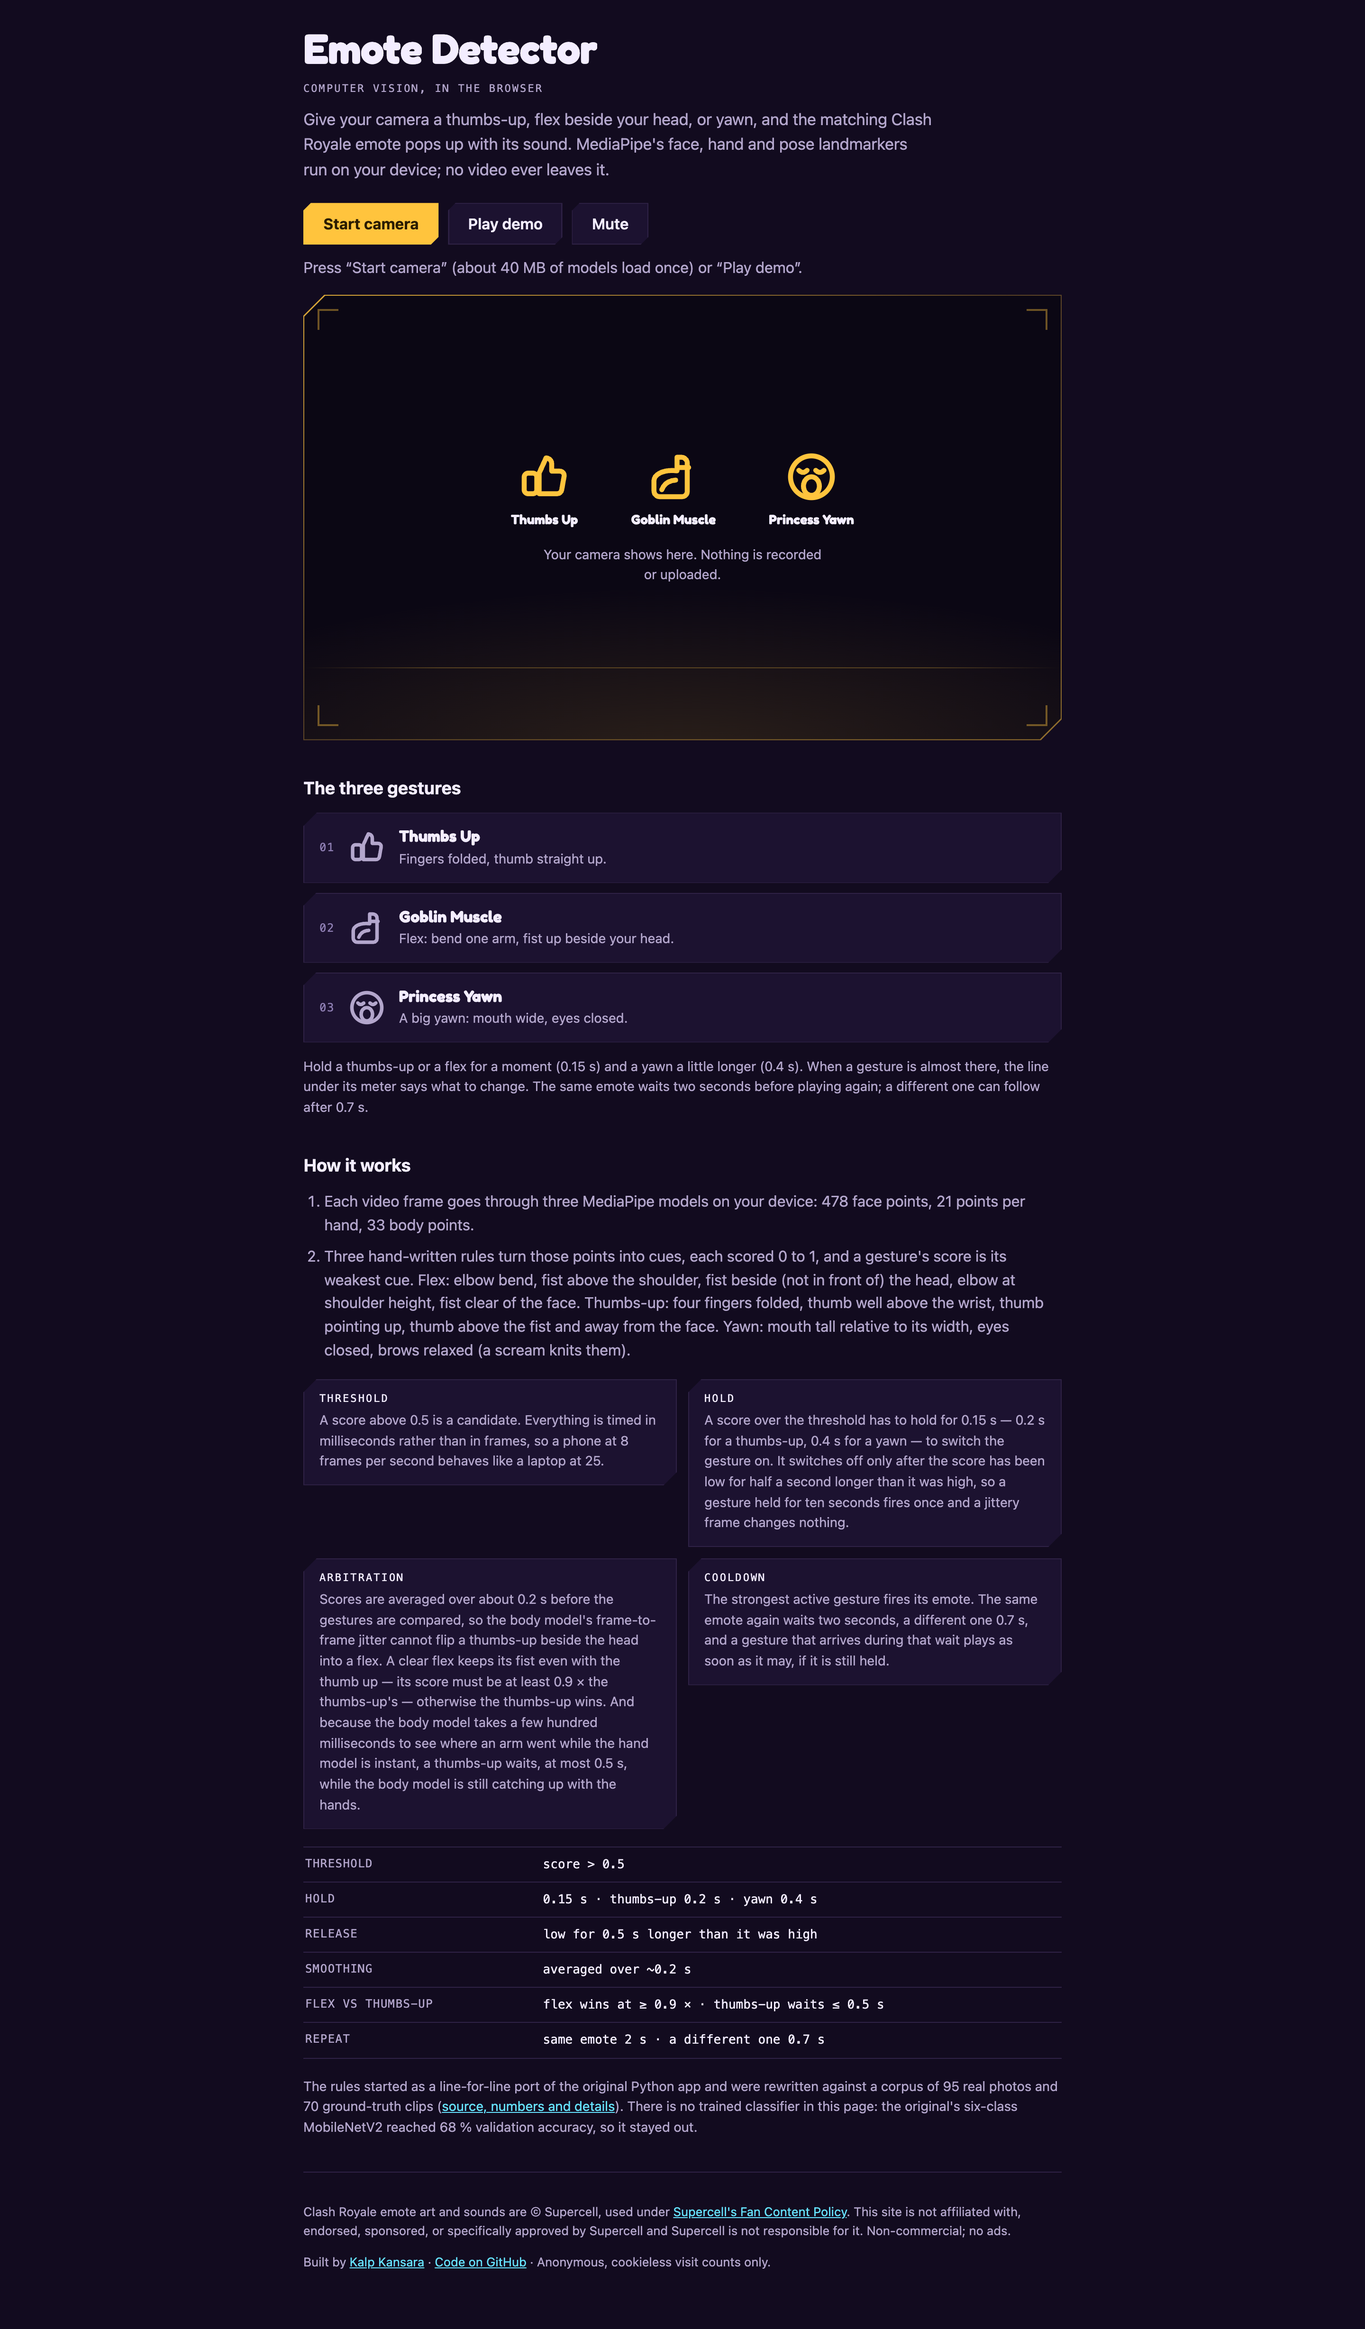
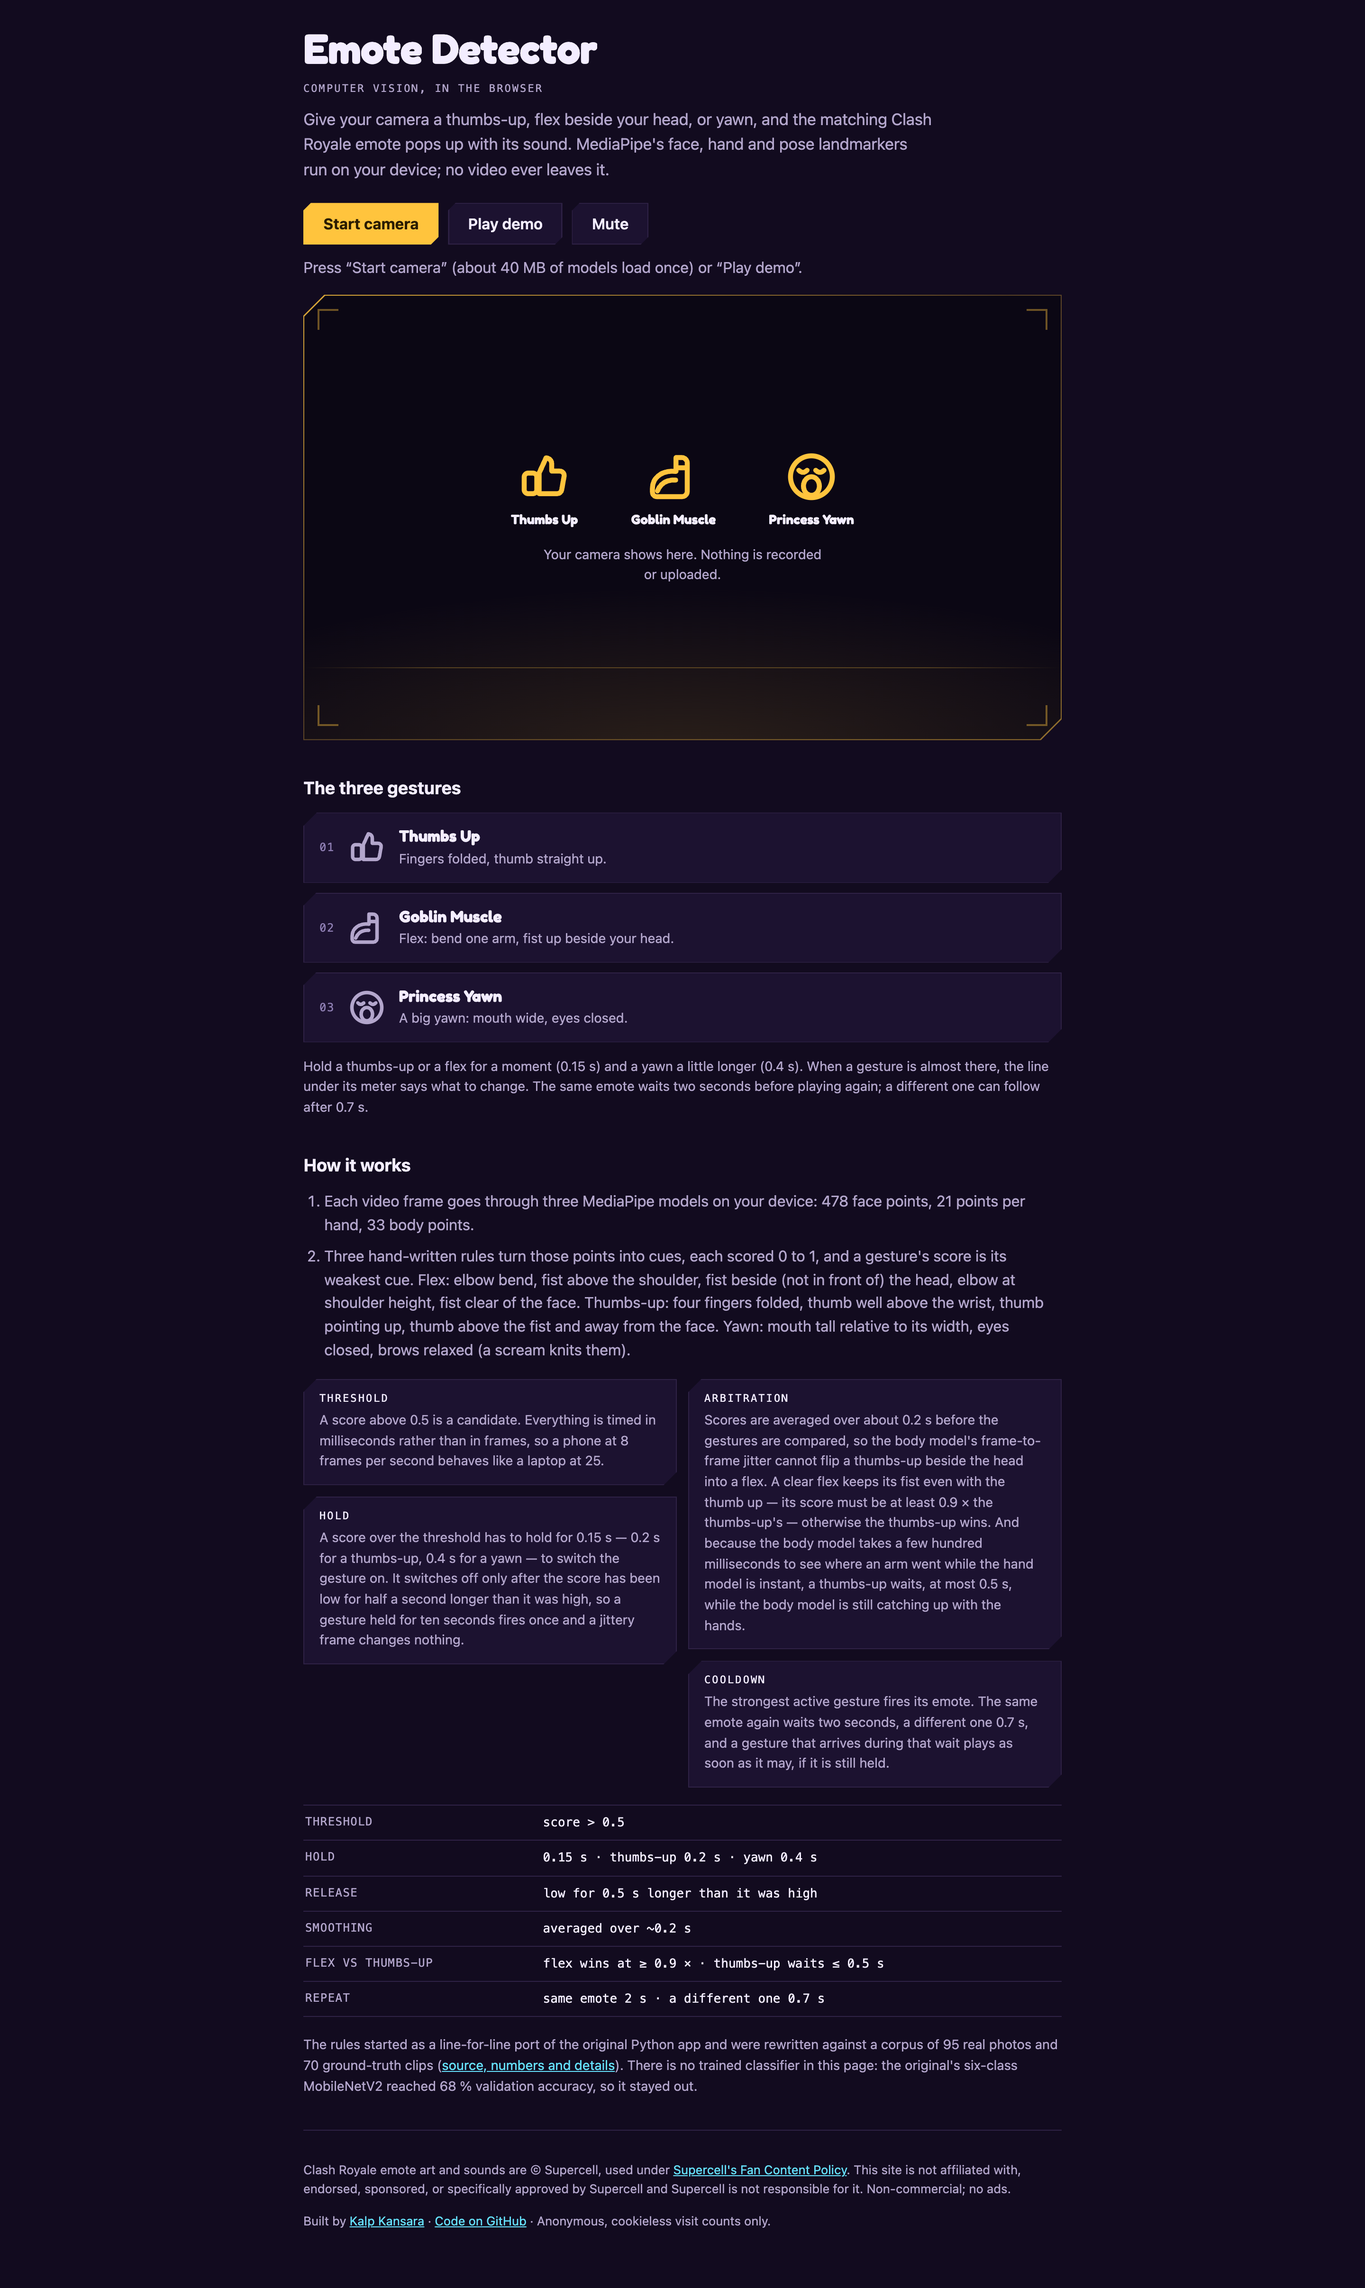
design: reviewer fixes — the reduce path, five false doc claims, a gate that could not fail
REJECT from the reviewer, three blocking items, all real.

1. Under prefers-reduced-motion the HUD was forced to translateY(0) unconditionally,
   so at rest a reduced-motion visitor saw the scoreboard's three marks 80 px under
   the triptych's three marks: six marks, three names twice, the floor rule covered.
   That is the running state shown at rest, not a complete final state, and it put
   back the exact P3 slop item the spec claims to close — on the accessibility path.
   The strip now stays out of the arena at rest and is in it while running, each
   state complete on its own, with no transition either way.

2. Five claims in spec.md and DESIGN.md were false of the shipped code: background,
   border-color, color and --beam-angle animate as well as transform/opacity/clip-path;
   the marks are 40 px (28 on a phone), not 44; the M6 "rim flash 400 ms" was never
   built; M5 is 0.6 opacity and linear with no fade-in, not 0.55 with an ease; and the
   beam ring is a second rounded surface. Every one is corrected, and the skip link now
   moves on transform instead of `top`, which animation-systems puts on the avoid list,
   so "no layout property animates" is true rather than aspirational.

3. The gate's reduced-motion beam assertion read ::after on a cell that was not
   .is-almost, so it returned "none" whatever the media query said — it would have
   passed with the override deleted. It now applies the class first, and asserts that
[…]

diff --git a/src/style.css b/src/style.css
@@ -722,7 +722,8 @@ h2 {
 .gesture-list li {
   --cut: var(--cut-md);
   display: grid;
-  grid-template-columns: auto 40px 1fr auto;
+  /* Three tracks at rest; `.is-live` adds the fourth for the percentage. */
+  grid-template-columns: auto 40px 1fr;
   align-items: center;
   gap: 14px;
   padding: 14px 16px;
@@ -842,15 +843,25 @@ h2 {
   margin-top: 8px;
 }
 
+/*
+  Multicol, not grid: the four sub-points are very different lengths, and a grid either stretches
+  them (a void the length of Arbitration) or leaves ragged holes. Columns balance their own
+  heights.
+*/
 .how-grid {
-  display: grid;
-  gap: 12px;
-  grid-template-columns: repeat(auto-fit, minmax(300px, 1fr));
-  /* Each panel hugs its own prose. Stretching them left a void the length of Arbitration. */
-  align-items: start;
+  columns: 2;
+  column-gap: 12px;
+}
+
+@media (max-width: 620px) {
+  .how-grid {
+    columns: 1;
+  }
 }
 
 .how-grid article {
+  break-inside: avoid;
+  margin-bottom: 12px;
   --cut: var(--cut-md);
   padding: 14px 16px;
   border: 1px solid var(--line);
@@ -968,21 +979,28 @@ html.reveal-ready [data-reveal].is-in {
   white-space: nowrap;
 }
 
+/*
+  A link, so it is cyan, not gold: outside the arena gold is the primary button and the "almost"
+  state only. It moves on `transform`, never on `top` — animation-systems puts layout properties
+  on the avoid list.
+*/
 .skip-link {
   position: absolute;
   left: 16px;
-  top: -64px;
+  top: 16px;
   z-index: 10;
   padding: 12px 18px;
-  background: var(--accent);
-  color: var(--accent-ink);
+  border: 1px solid var(--cyan);
+  background: var(--bg-elev);
+  color: var(--cyan);
   font-weight: 700;
   text-decoration: none;
-  transition: top var(--dur-state) var(--ease);
+  transform: translateY(-96px);
+  transition: transform var(--dur-state) var(--ease);
 }
 
 .skip-link:focus-visible {
-  top: 16px;
+  transform: translateY(0);
 }
 
 /*
@@ -1024,9 +1042,13 @@ html.reveal-ready [data-reveal].is-in {
     transition: none;
   }
 
-  /* M3: the scoreboard is simply there, at rest and while running. */
+  /*
+    M3: no slide. `.hud` keeps translateY(101%) at rest and `.stage.running .hud` puts it at 0,
+    so each state lands instantly on its OWN complete final state. Forcing translateY(0) here
+    showed the scoreboard at rest, duplicating the triptych above it — the running state while
+    at rest is not a complete final state, it is the wrong one.
+  */
   .hud {
-    transform: translateY(0);
     transition: none;
   }
 
@@ -1079,5 +1101,11 @@ html.reveal-ready [data-reveal].is-in {
 
   .skip-link {
     transition: none;
+  }
+
+  .hud-mark,
+  .arena,
+  .button {
+    transition-duration: 0ms;
   }
 }

diff --git a/index.html b/index.html
@@ -37,9 +37,9 @@
       </symbol>
       <symbol id="mark-flex" viewBox="0 0 32 32">
         <g fill="none" stroke="currentColor" stroke-width="3" stroke-linecap="round" stroke-linejoin="round" vector-effect="non-scaling-stroke">
-          <path d="M18.4 4.2h2.6a3.6 3.6 0 0 1 3.6 3.6v17a3.2 3.2 0 0 1-3.2 3.2H8a3.5 3.5 0 0 1-3.5-3.5v-6.1C4.5 14.2 11 11.4 18.4 12.4Z" />
-          <path d="M18.6 10.4h6.8" />
-          <path d="M9.2 23.8c1.4-3.6 4.4-5.6 8.4-5.8" />
+          <path d="M17.8 4.4h3.4a3.4 3.4 0 0 1 3.4 3.4v17a3.2 3.2 0 0 1-3.2 3.2H6.2a2.6 2.6 0 0 1-2.6-2.6v-2.6C3.6 16.2 10 11.8 17.8 12.8Z" />
+          <path d="M18 10.6h6.4" />
+          <path d="M6.6 24.6c1.8-4.6 5.8-7 11-6.6" />
         </g>
       </symbol>
       <symbol id="mark-yawn" viewBox="0 0 32 32">
@@ -139,7 +139,7 @@
 
       <section class="gestures" aria-labelledby="gestures-heading">
         <h2 id="gestures-heading">The three gestures</h2>
-        <ul class="gesture-list">
+        <ul id="gesture-list" class="gesture-list">
           <li data-reveal style="--i: 0">
             <span class="num" aria-hidden="true">01</span>
             <svg class="mark" aria-hidden="true"><use href="#mark-thumbs_up" /></svg>

diff --git a/src/main.ts b/src/main.ts
@@ -32,7 +32,7 @@ const demoCaption = $<HTMLDivElement>("demo-caption");
 const ctx = canvas.getContext("2d")!;
 /** The arena's scoreboard along the bottom edge of the stage. Draws only what the engine computes. */
 const hud = new Hud($<HTMLDivElement>("hud"));
-const gestureList = document.querySelector<HTMLUListElement>(".gesture-list");
+const gestureList = $<HTMLUListElement>("gesture-list");
 
 const meters: Record<Gesture, { bar: HTMLDivElement; value: HTMLSpanElement; hint: HTMLSpanElement; idle: string }> = {
   flex: { bar: $("bar-flex"), value: $("val-flex"), hint: $("hint-flex"), idle: "" },
@@ -233,7 +233,7 @@ function setRunning(running: boolean, kind: Source["kind"] | null): void {
   demoCaption.classList.toggle("hidden", kind !== "demo");
   // P3 audit items: no dead "Stop" and no three identical 0 % rows before anything has started.
   stopBtn.classList.toggle("is-idle-hidden", !running);
-  gestureList?.classList.toggle("is-live", running);
+  gestureList.classList.toggle("is-live", running);
 }
 
 async function ensureModels(): Promise<Landmarkers> {

diff --git a/docs/design/DESIGN.md b/docs/design/DESIGN.md
@@ -27,7 +27,7 @@ it was the best thing about it. What changed is that every colour now has exactl
 | `--line` | `#2f2246` | Every 1 px rule and panel edge that is not the arena. |
 | `--accent` | `#ffc43d` | **Gold is the arena**: its frame, its corner brackets, its floor-light, the marks it shows at rest, and any gesture firing or about to fire inside it. Outside the arena, only the primary button that starts a session and the "almost" state on a gesture row. Never a section heading, an eyebrow or a numeral. |
 | `--accent-ink` | `#2a1c00` | Text on gold. 10.45:1. |
-| `--cyan` | `#66e3ff` | **Links, and the focus ring. Nothing else.** |
+| `--cyan` | `#66e3ff` | **Links, the skip link, and the focus ring. Nothing else.** |
 
 **`--pink` was deleted.** It had tinted the "almost" border (now gold, because gold is that state's
 colour) and the face landmark dots (now muted, because the overlay is machinery). A second accent
@@ -101,10 +101,11 @@ third and a radial floor-light coming up from beneath it. That light is the only
 and it is concentrated there; the purple is never washed. When a session starts the frame's edge
 brightens and the furniture steps back behind the picture.
 
-**The one rounded thing on the page is the plate**, at 20 px, and that is the hierarchy
-`corner-diagonals` asks for when rounded and chamfered geometry share a surface: everything that
-is *interface* is chamfered; the single *physical object* that gets thrown into the arena is
-molded. If a second rounded surface appears, that distinction has been lost.
+**Two rounded surfaces, and only two**: the plate at 20 px and the beam ring at 10 px. That is
+the hierarchy `corner-diagonals` asks for when rounded and chamfered geometry share a page —
+everything that is *interface* is chamfered; the *physical object* thrown into the arena is
+molded, and the halo that traces a mark follows the mark's own soft shape rather than the
+interface's. A third rounded surface means the distinction has been lost.
 
 **One skeuomorphic object** (`skeuomorphic-ui`): the plate the emote lands on. Soft vertical
 gradient, a 1 px reflective gradient border, stacked outer elevation plus inset carved depth, a
@@ -155,9 +156,9 @@ stagger 60 ms (35 ms for hero words).
 |---|---|---|---|
 | M1 | h1 words rise through a mask, on load | hierarchy | Never split. Plain h1, no motion. |
 | M2 | Gesture rows, how-it-works panels and the timings list rise once on scroll | attention | Complete on first paint. |
-| M3 | Arena edge brightens, HUD strip rises out of the bottom edge | feedback + continuity | Both at their final state instantly. |
+| M3 | Arena edge brightens, HUD strip rises out of the bottom edge | feedback + continuity | No slide and no colour transition: at rest the strip is out of the arena, once running it is in, each state complete on its own. |
 | M4 | HUD marks fill with gold from the live score | it is the data | Still updates; snaps instead of tracking. |
-| M5 | A travelling gold edge beam on one HUD mark while `0.35 < score < 0.5` | attention | A complete static gold border. |
+| M5 | A travelling gold edge beam on one HUD mark while `0.35 < score < 0.5` (3.2 s, linear, opacity 0.6, no fade-in) | attention | A complete static gold border. |
 | M6 | The emote lands on its plate | feedback | Full scale, 120 ms opacity fade, no overshoot, plate static. |
 | M7 | The emote leaves | continuity | 120 ms fade. |
 | M8 | Button press and hover | feedback | Colour only, no translate. |
@@ -165,9 +166,16 @@ stagger 60 ms (35 ms for hero words).
 **No perpetual loop runs behind content.** M5 is the only looping animation on the page, and it is
 gated on a real measured score, drawn in front of nothing, one at a time. At rest the page is still.
 
-Only `transform`, `opacity`, `clip-path` (three 44 px marks) and `border-color` animate. No
-animated blur, no animated shadow, no per-frame layout measurement, no smooth-scroll engine, no
-WebGL, no particle system — the page shares its main thread with three MediaPipe models.
+What animates: `transform` and `opacity` everywhere that moves; `clip-path` on the three HUD
+marks (40 px, 28 px below 560 px); the colour properties `background`, `border-color` and `color`
+on the buttons, the arena edge and the HUD marks; and the registered custom property
+`--beam-angle` on the one gated beam. **No layout property animates** — the skip link moves on
+`transform`, not `top`. No animated blur, no animated shadow, no per-frame layout measurement, no
+smooth-scroll engine, no WebGL, no particle system.
+
+M5 is the one thing here that is not free: while a score sits in the almost band it repaints a
+masked conic gradient at frame rate over the live video, next to three MediaPipe models. One
+small element, one at a time, gated on a real measurement, gone the moment the gesture fires.
 
 ---
 

diff --git a/docs/design/spec.md b/docs/design/spec.md
@@ -160,8 +160,8 @@ exactly one keyframe.
 | M2 | Section entrance (gesture rows, how-it-works points, timings) on scroll | **Attention** — guides the eye down a long explanatory page, once | 520 ms, rise 16 px, stagger 60 ms, `--ease` | Observer never installed, and the `reveal-ready` class that hides them is never added; every element is at its final state on paint. |
 | M3 | Arena "power on": the gold frame edge brightens and the HUD strip rises from the bottom edge when a session starts | **Feedback + continuity** — confirms the camera or demo is actually live | 200 ms, `--ease` | HUD strip is present at its final position instantly; the edge changes colour with no transition. |
 | M4 | HUD mark liquid fill tracking the live score | **It is the data.** The meters ARE the arena's scoreboard | 120 ms linear (a readout tracks, it does not ease) | Fill still updates — it is information, not decoration — but with `transition: none`, so it snaps. |
-| M5 | "Almost there" edge beam on the leading HUD mark while `0.35 < score < 0.5` | **Attention** — the app already computes this and already says what to change; the beam makes it legible at arm's length | 3.2 s cycle, opacity 0.55, `--ease` fade-in | Static 1 px gold border + gold mark tint. A complete state, not a shortened animation. |
-| M6 | Emote landing on its molded plate | **Feedback** — the payload is thrown, not faded in. The one hero moment | 340 ms, `--ease-land`; rim flash 400 ms | Emote appears at full scale with a 120 ms opacity fade. Plate static, no flash. |
+| M5 | "Almost there" edge beam on the leading HUD mark while `0.35 < score < 0.5` | **Attention** — the app already computes this and already says what to change; the beam makes it legible at arm's length | 3.2 s cycle, linear, opacity 0.6, appears instantly (no fade-in) | Static 1 px gold border + gold mark tint. A complete state, not a shortened animation. |
+| M6 | Emote landing on its molded plate | **Feedback** — the payload is thrown, not faded in. The one hero moment | 340 ms, `--ease-land`, emote and plate on one beat | Emote appears at full scale with a 120 ms opacity fade; the plate does not move. |
 | M7 | Emote leaving | **Continuity** | 180 ms opacity, `--ease-exit` | 120 ms opacity fade. |
 | M8 | Button press / hover | **Feedback** | 140 ms, `--ease` | Colour and border change only; no translate. |
 
@@ -169,9 +169,17 @@ exactly one keyframe.
 state-gated on a real measured score, in front of nothing, one at a time. At rest the page is
 completely still.
 
-**Performance.** Only `transform`, `opacity`, `clip-path` (three 44 px marks) and `border-color`
-animate. No animated blur, no animated shadow, no per-frame layout measurement. The camera loop
-is already capped at ~25 fps by `MIN_FRAME_MS`; nothing here adds work to it.
+**Performance.** What animates: `transform` and `opacity` everywhere that moves; `clip-path` on
+the three HUD marks (40 px, 28 px below 560 px); the colour properties `background`,
+`border-color` and `color` on the buttons, the arena edge and the HUD marks; and the registered
+custom property `--beam-angle` on the one gated beam. No layout property animates anywhere — the
+skip link moves on `transform`, not `top`. No animated blur, no animated shadow, no per-frame
+layout measurement.
+
+The one cost worth naming honestly: while a single score sits in the almost band, M5 repaints a
+masked conic gradient at frame rate over the live video, alongside the three MediaPipe models.
+It is one small element, one at a time, gated on a real measurement, and it stops the moment the
+gesture fires or falls away — but it is not free. Everything else on this page is idle at rest.
 
 ---
 
